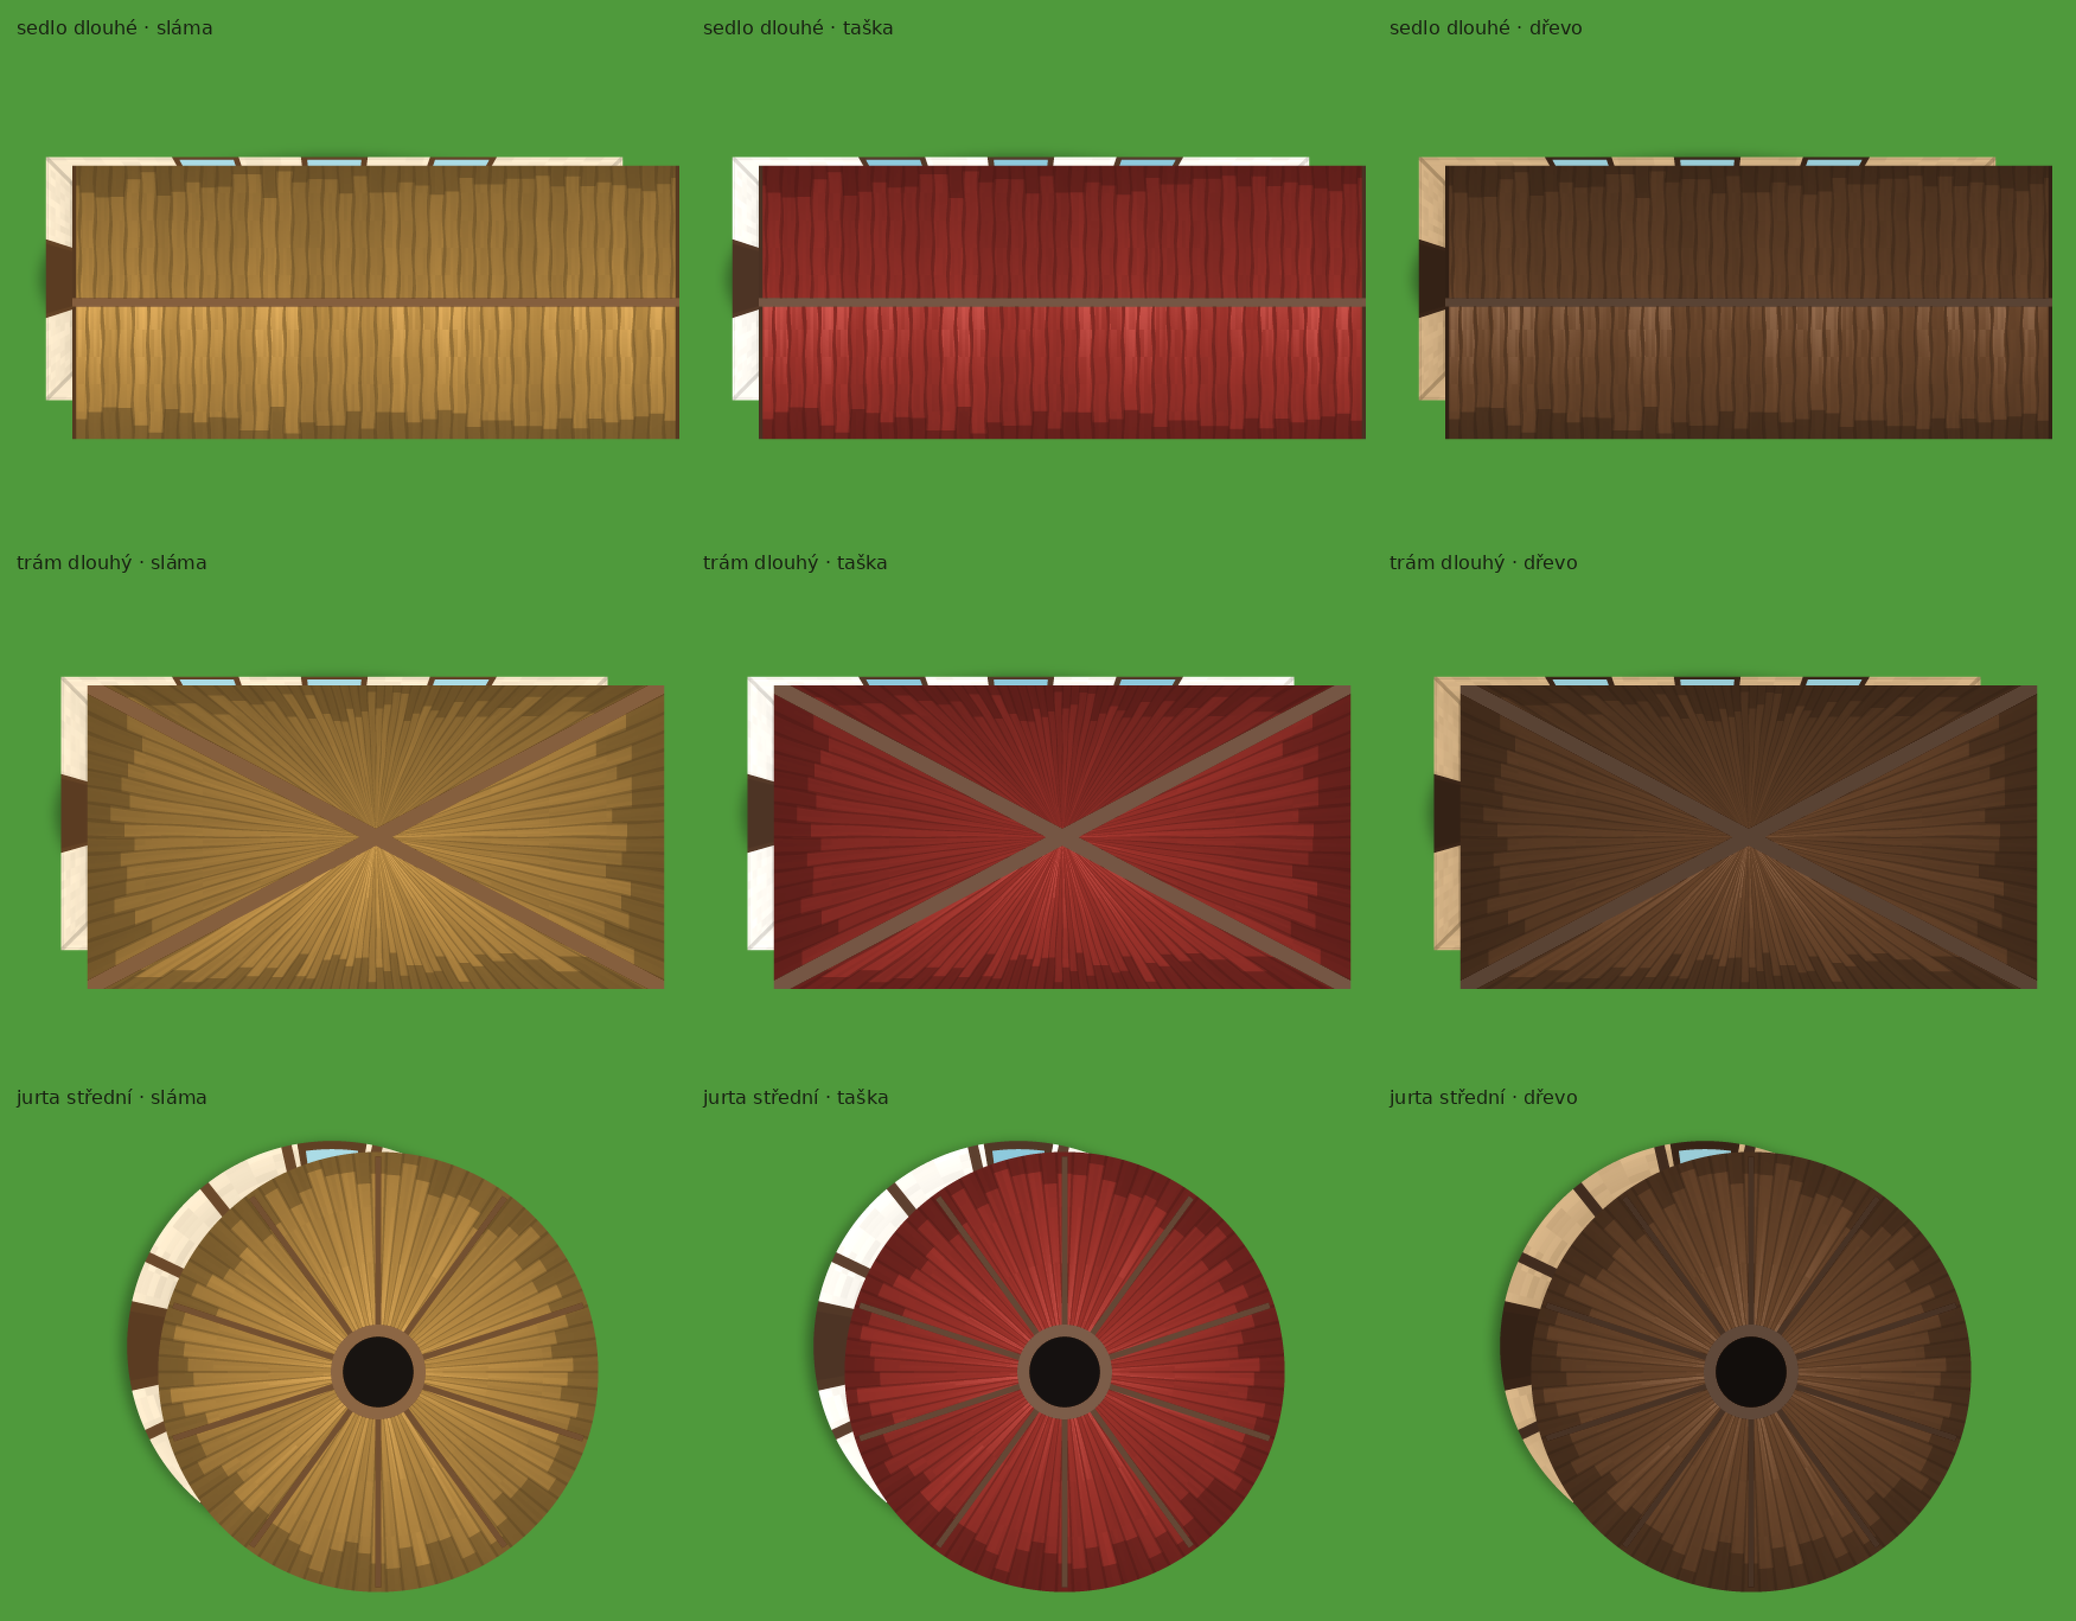
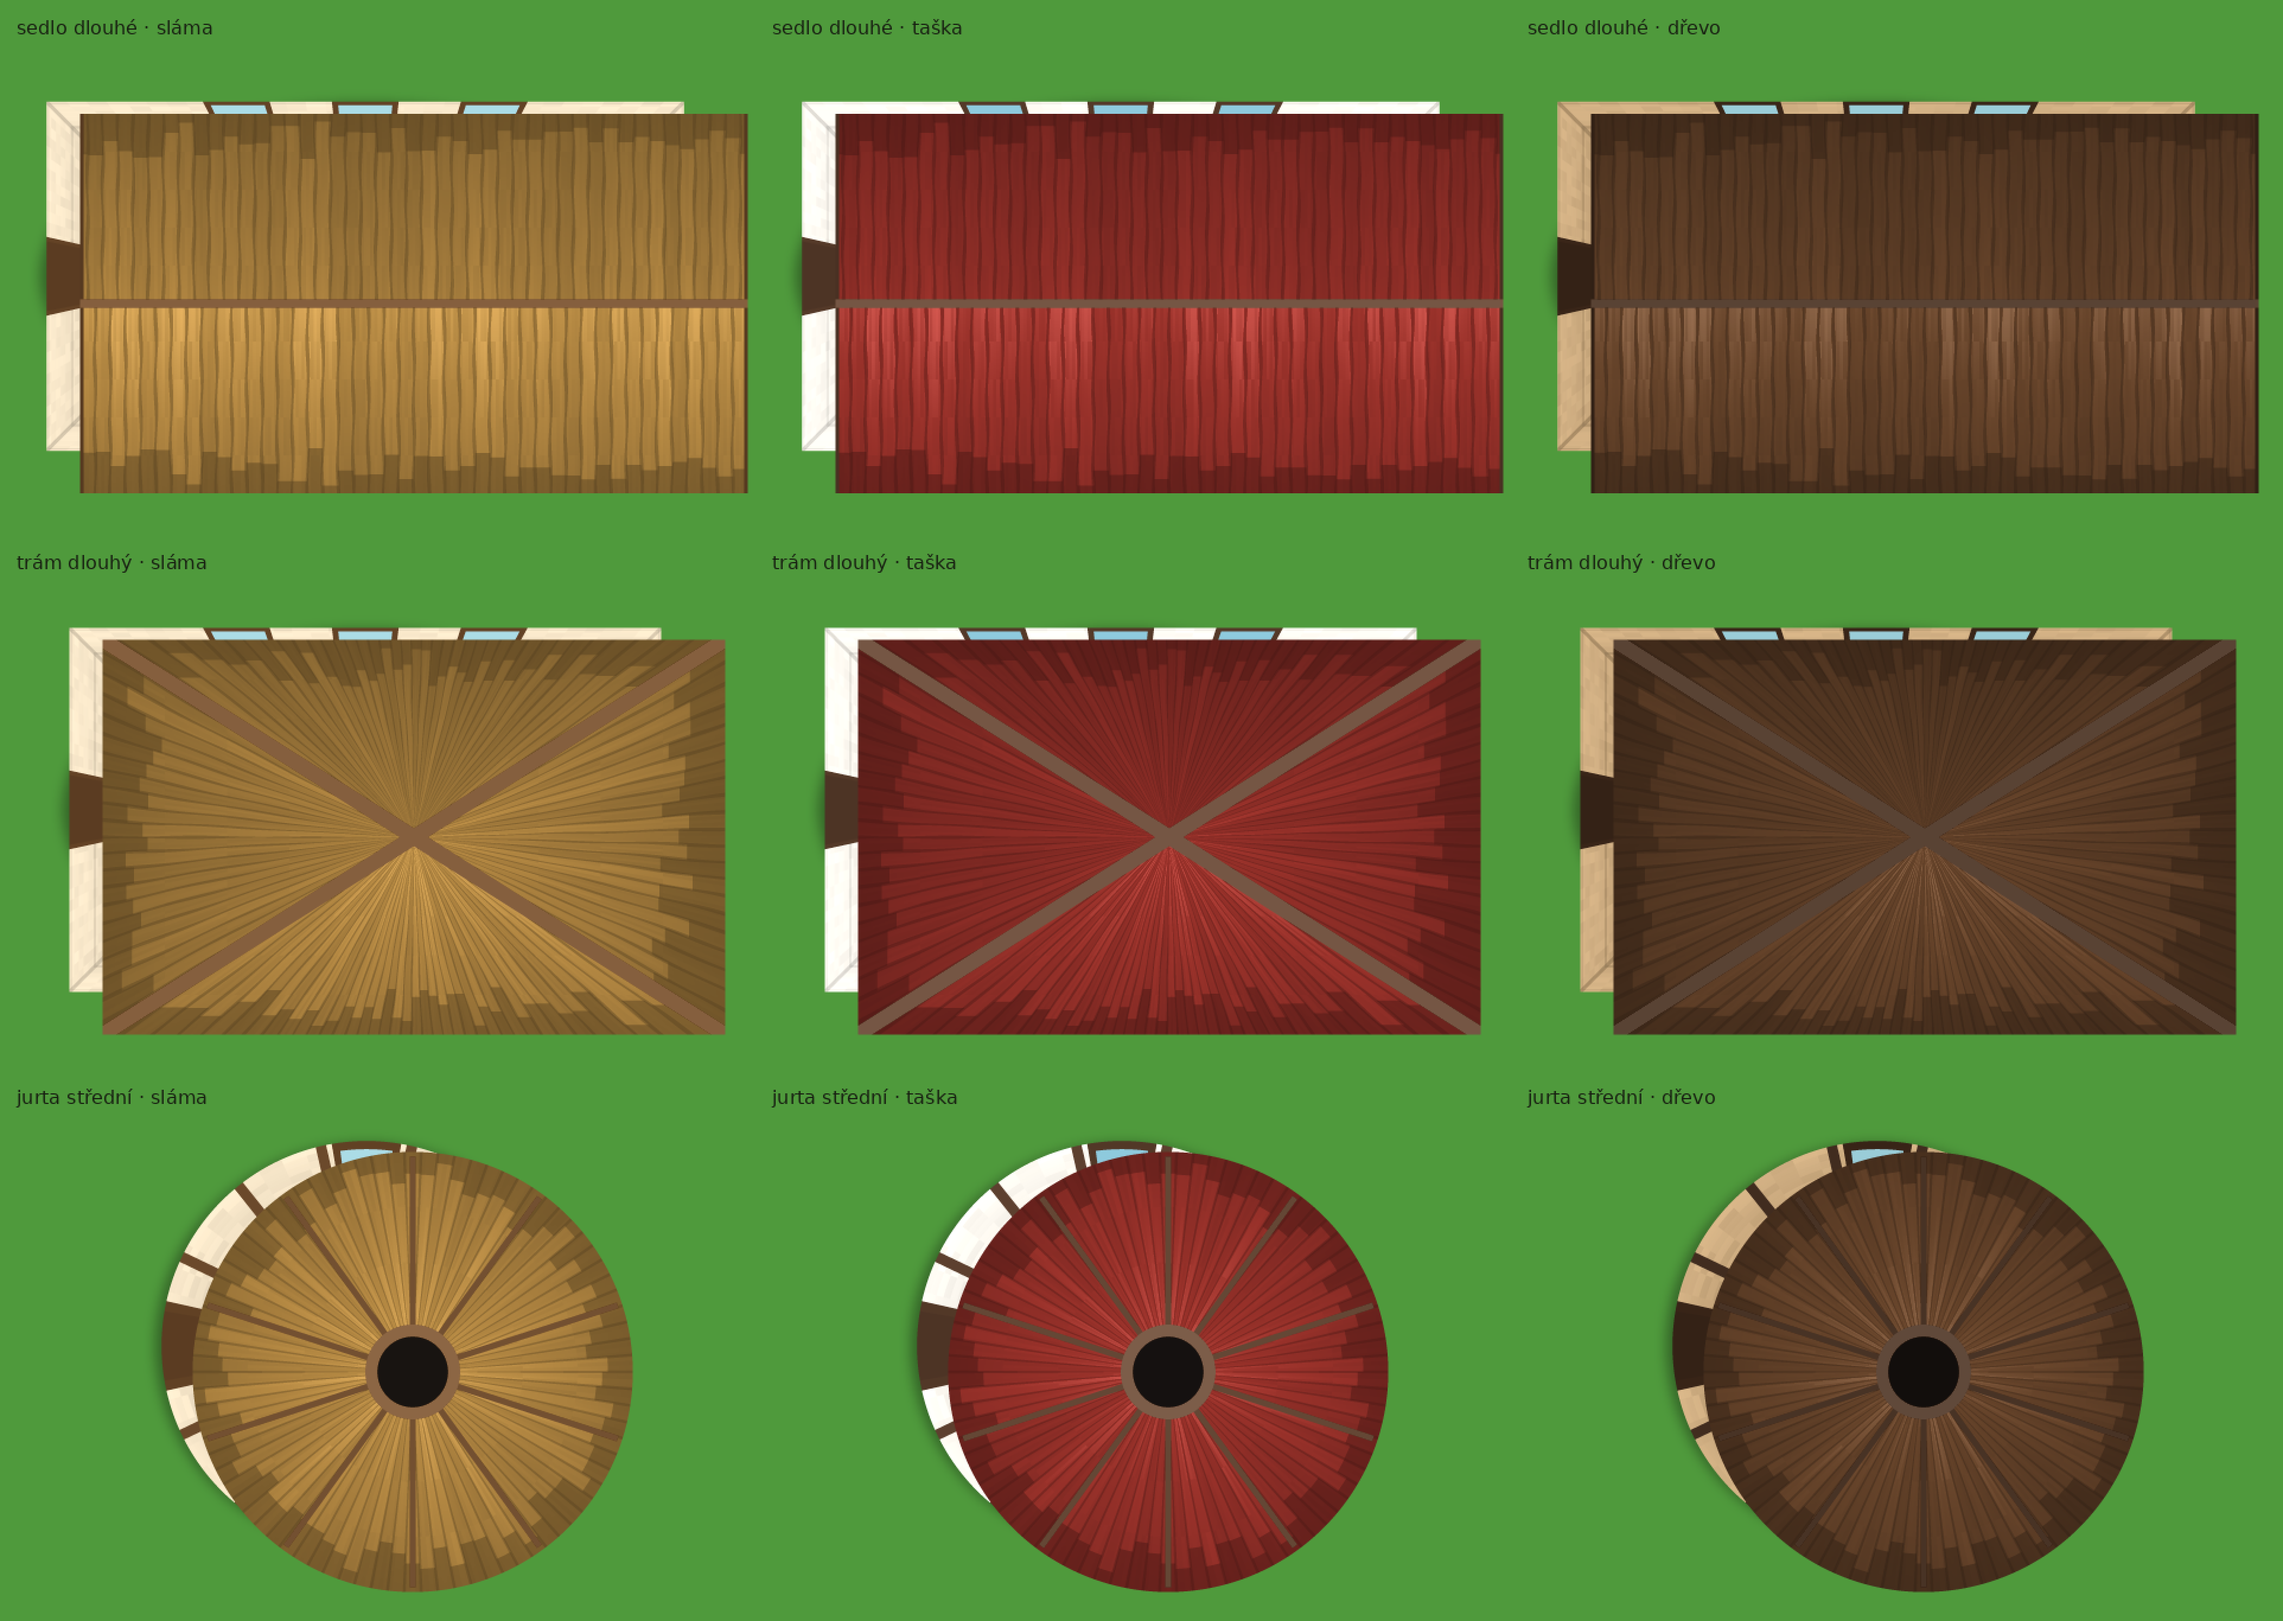
Enlarge the smaller houses and show the raw layer masks.
Small gable and hip plans sit closer to the large ones. The mask sheet is the files Godot loads, with materials in the color channels.

diff --git a/tools/gen_houses.py b/tools/gen_houses.py
@@ -89,12 +89,12 @@ class House:
 # Menší sedlo i trám mají stejnou hloubku a výšku, liší se jen délkou.
 LAYER_PREVIEW = ("sedlo_dlouhe", "tram_dlouhy", "jurta_stredni")
 HOUSES: tuple[House, ...] = (
-    House("sedlo_kratke", "sedlo krátké", "sedlo", 4.2, 3.2, 3.4),
-    House("sedlo_dlouhe", "sedlo dlouhé", "sedlo", 7.6, 3.2, 3.4),
-    House("sedlo_velke", "sedlo velké", "sedlo", 9.2, 5.4, 5.0),
-    House("tram_kratky", "trám krátký", "tram", 4.0, 3.6, 3.4),
-    House("tram_dlouhy", "trám dlouhý", "tram", 7.2, 3.6, 3.4),
-    House("tram_velky", "trám velký", "tram", 8.0, 6.4, 5.0),
+    House("sedlo_kratke", "sedlo krátké", "sedlo", 5.8, 4.6, 4.0),
+    House("sedlo_dlouhe", "sedlo dlouhé", "sedlo", 8.4, 4.6, 4.0),
+    House("sedlo_velke", "sedlo velké", "sedlo", 9.4, 5.4, 4.6),
+    House("tram_kratky", "trám krátký", "tram", 5.2, 4.8, 4.0),
+    House("tram_dlouhy", "trám dlouhý", "tram", 7.8, 4.8, 4.0),
+    House("tram_velky", "trám velký", "tram", 8.6, 6.0, 4.6),
     House("jurta_mala", "jurta malá", "jurta", 3.8, 3.8, 3.2),
     House("jurta_stredni", "jurta střední", "jurta", 5.4, 5.4, 3.8),
     House("jurta_velka", "jurta velká", "jurta", 7.2, 7.2, 4.6),
@@ -633,6 +633,46 @@ def save_grid(items: list[tuple[Image.Image, str]], columns: int, path: Path, sc
     sheet.save(path)
 
 
+def on_checker(image: Image.Image, cell: int = 8) -> Image.Image:
+    bg = Image.new("RGBA", image.size)
+    draw = ImageDraw.Draw(bg)
+    light, dark = (68, 68, 74, 255), (42, 42, 48, 255)
+    width, height = image.size
+    for top in range(0, height, cell):
+        for left in range(0, width, cell):
+            fill = light if (left // cell + top // cell) % 2 == 0 else dark
+            draw.rectangle((left, top, left + cell, top + cell), fill=fill)
+    bg.alpha_composite(image)
+    return bg.convert("RGB")
+
+
+def save_masks(path: Path) -> None:
+    """Surové soubory vrstev. R, G a B jsou materiály, ne výsledná barva."""
+    items: list[tuple[Image.Image, str]] = []
+    for house in HOUSES:
+        for filename in ("wall.png", "roof.png"):
+            image = Image.open(OUT_DIR / house.name / filename).convert("RGBA")
+            items.append((image, f"{house.name}/{filename}"))
+    gap, caption = 14, 26
+    columns = 6
+    slot_w = max(image.width for image, _label in items)
+    slot_h = max(image.height for image, _label in items)
+    rows = math.ceil(len(items) / columns)
+    sheet = Image.new("RGB", (columns * slot_w + (columns + 1) * gap, rows * (slot_h + caption) + (rows + 1) * gap), (32, 32, 36))
+    draw = ImageDraw.Draw(sheet)
+    font = load_font(16)
+    for index, (image, label) in enumerate(items):
+        col, row = index % columns, index // columns
+        x = gap + col * (slot_w + gap)
+        y = gap + row * (slot_h + caption + gap)
+        draw.text((x, y), label, fill=(230, 226, 214), font=font)
+        ox = x + (slot_w - image.width) // 2
+        oy = y + caption + (slot_h - image.height) // 2
+        sheet.paste(on_checker(image), (ox, oy))
+    path.parent.mkdir(parents=True, exist_ok=True)
+    sheet.save(path)
+
+
 def colored(wall: Image.Image, roof: Image.Image, palette: str) -> tuple[Image.Image, Image.Image]:
     colors = PALETTES[palette]
     return colorize(wall, wall_tints(colors)), colorize(roof, roof_tints(colors))
@@ -822,11 +862,13 @@ def main() -> None:
         save_grid(built["edge"], 3, PREVIEW / "houses_kraj.png", 2)
         save_grid(built["layers"], 4, PREVIEW / "houses_vrstvy.png", 2)
         save_grid(built["colors"], 3, PREVIEW / "houses_barvy.png", 2)
+        save_masks(PREVIEW / "houses_masky.png")
         info = write_info(built["catalog"])
         print(PREVIEW / "houses.png")
         print(PREVIEW / "houses_vrstvy.png")
         print(PREVIEW / "houses_kraj.png")
         print(PREVIEW / "houses_barvy.png")
+        print(PREVIEW / "houses_masky.png")
         print(info)
 
 
